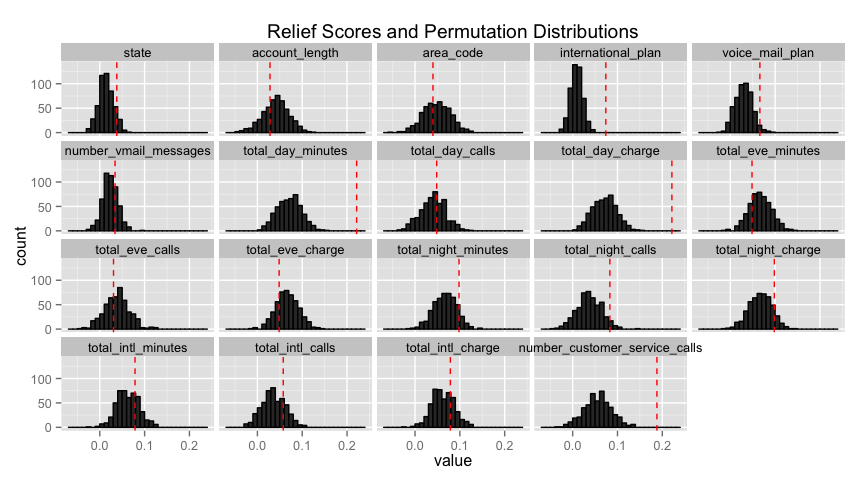
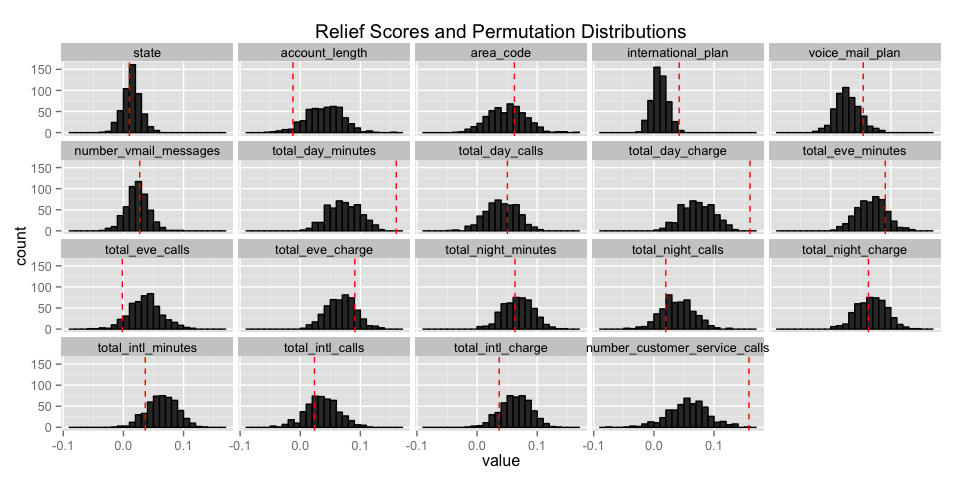
fix text formatting

Changed region(s): [[0.0, 0.0312, 0.9688, 0.9688], [0.9375, 0.5625, 0.9688, 0.5938]]

diff --git a/measuring-predictor-importance/churn_data_181.md b/measuring-predictor-importance/churn_data_181.md
@@ -146,6 +146,7 @@ ggplot(data = res, aes(x = chisq, y = -log(chi.p.value))) +
 ```
 
 ![](churn_data_181_files/figure-html/unnamed-chunk-4-1.png) 
+
 Receiver operating characteristic (ROC) curves offer a method to examine the extent
 to which a predictor variable distinguishes between the two levels of a response
 factor, e.g. to what extent does the "account_length" variable allow us to 
@@ -268,26 +269,26 @@ relief_values[order(relief_values, decreasing = TRUE)]
 ```
 
 ```
-##             total_day_minutes              total_day_charge 
-##                    0.22143292                    0.22139392 
-## number_customer_service_calls            total_night_charge 
-##                    0.18800000                    0.09831919 
-##           total_night_minutes             total_night_calls 
-##                    0.09818469                    0.08303286 
-##             total_intl_charge            total_intl_minutes 
-##                    0.07882716                    0.07866667 
-##            international_plan               voice_mail_plan 
-##                    0.07400000                    0.06600000 
-##              total_intl_calls             total_eve_minutes 
-##                    0.05766667                    0.04848208 
-##              total_eve_charge               total_day_calls 
-##                    0.04847234                    0.04836364 
-##                     area_code                         state 
-##                    0.04000000                    0.03800000 
-##         number_vmail_messages               total_eve_calls 
-##                    0.03406536                    0.03066667 
+##              total_day_charge             total_day_minutes 
+##                   0.159747820                   0.159708856 
+## number_customer_service_calls              total_eve_charge 
+##                   0.158000000                   0.090732665 
+##             total_eve_minutes           total_night_minutes 
+##                   0.090660434                   0.063055765 
+##            total_night_charge                     area_code 
+##                   0.062684599                   0.062000000 
+##               voice_mail_plan               total_day_calls 
+##                   0.054000000                   0.050383838 
+##            international_plan             total_intl_charge 
+##                   0.042000000                   0.036790123 
+##            total_intl_minutes         number_vmail_messages 
+##                   0.036333333                   0.027150327 
+##              total_intl_calls             total_night_calls 
+##                   0.023666667                   0.019708920 
+##                         state               total_eve_calls 
+##                   0.010000000                  -0.001764706 
 ##                account_length 
-##                    0.02812672
+##                  -0.012176309
 ```
 
 An addition to the Relief algorithm is to permutate the response observations so as to 
@@ -330,26 +331,26 @@ relief_perm$standardized[order(relief_perm$standardized)]
 ```
 
 ```
-##            total_intl_minutes             total_intl_charge 
-##                    -1.2937562                    -1.2821317 
-##                     area_code              total_intl_calls 
-##                    -0.5042796                    -0.4506004 
-##                         state               total_day_calls 
-##                    -0.4283967                     0.1316824 
-##              total_eve_charge             total_eve_minutes 
-##                     0.1846485                     0.1855189 
-##           total_night_minutes            total_night_charge 
-##                     0.3908771                     0.3917792 
-##                account_length             total_night_calls 
-##                     0.4028454                     0.7952273 
-##               total_eve_calls number_customer_service_calls 
-##                     0.8226686                     3.2901295 
-##         number_vmail_messages               voice_mail_plan 
-##                     3.5356765                     5.4117153 
+##              total_intl_calls               total_eve_calls 
+##                    -1.3817103                    -0.3867892 
+##            total_intl_minutes             total_night_calls 
+##                     0.1200127                     0.1482512 
+##             total_intl_charge                         state 
+##                     0.1502261                     0.2142578 
+##                account_length           total_night_minutes 
+##                     0.2227325                     0.2958105 
+##            total_night_charge                     area_code 
+##                     0.3008955                     0.6927380 
+##               total_day_calls             total_eve_minutes 
+##                     1.0306208                     1.1405252 
+##              total_eve_charge         number_vmail_messages 
+##                     1.1411789                     1.9969366 
+##               voice_mail_plan number_customer_service_calls 
+##                     2.3374189                     2.3601988 
 ##            international_plan             total_day_minutes 
-##                     7.7982794                     7.9345573 
+##                     2.7587315                     7.5070864 
 ##              total_day_charge 
-##                     7.9358552
+##                     7.5079065
 ```
 
 
